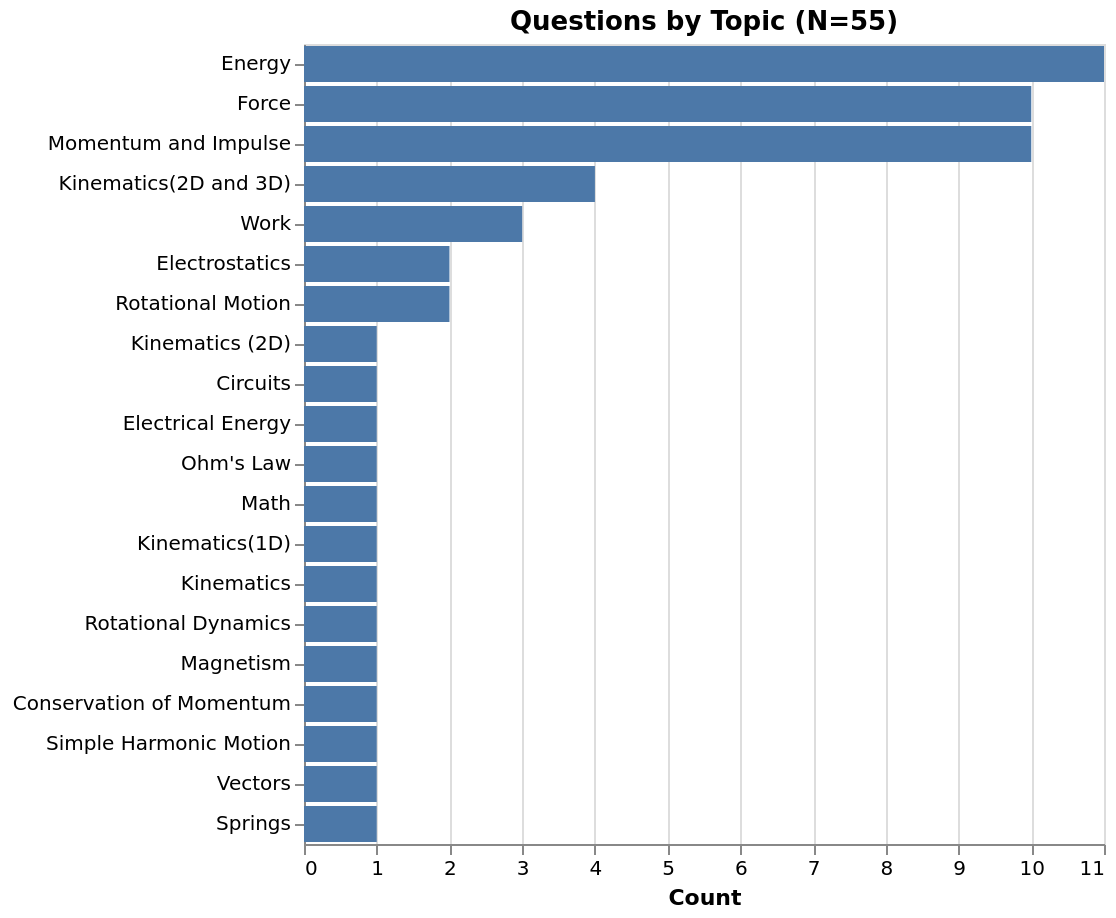
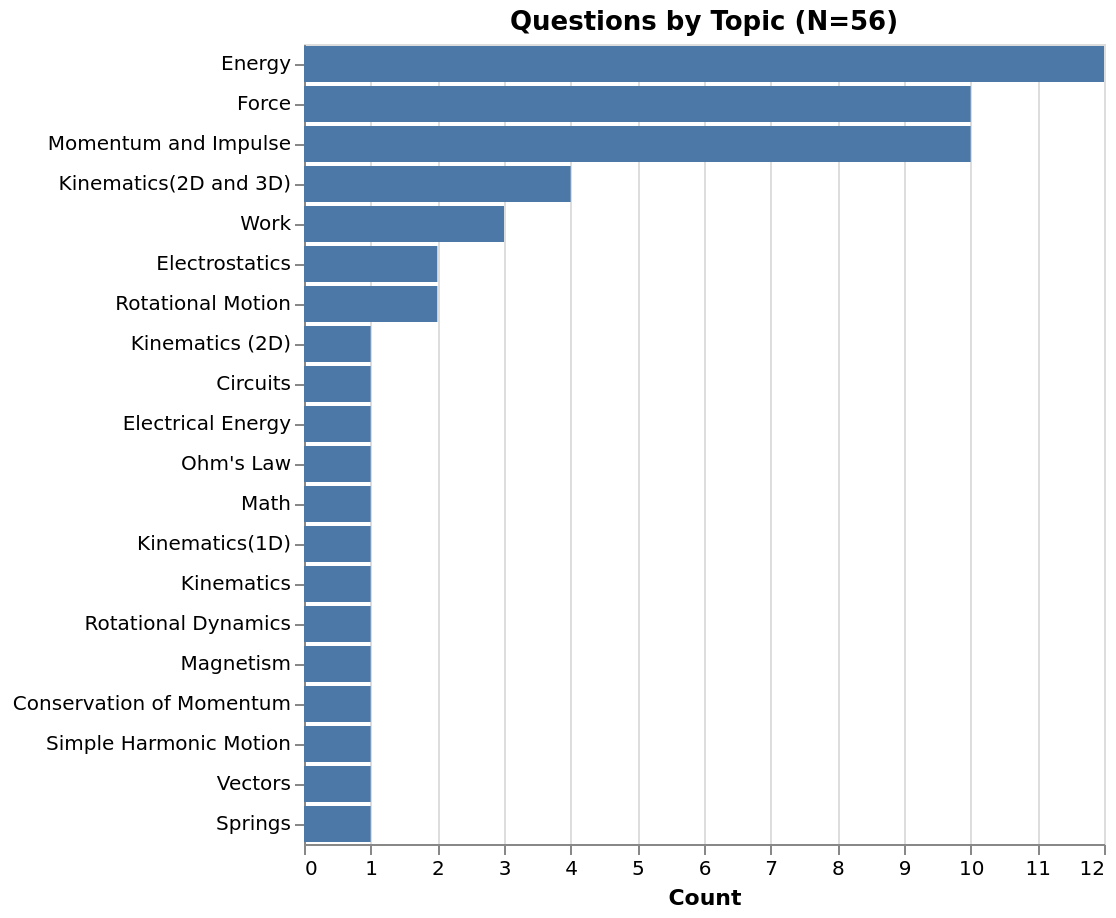
Update TOC via GH Action

diff --git a/content/index.md b/content/index.md
@@ -1,0 +1,61 @@
+# Question Index 
+ 
+ 
+ | Question | Public HTML | Public MD | Instructor MD | PL |
+| --------- | --------- | --------- | --------- | --------- |
+1 |  [Q 1](https://firas.moosvi.com/oer/physicsbank/content/content/public/009.Work/Work/force_and_displacement/force_and_displacement.html)| [Q 1](https://github.com/open-resources/physics_bank/blob/main/content/content/public/009.Work/Work/force_and_displacement/force_and_displacement.md) | [Q 1](https://github.com/open-resources/instructor_physics_bank/blob/main/output/content/instructor/009.Work/Work/force_and_displacement/force_and_displacement.md) | [TBD]() | 
+2 |  [Q 2](https://firas.moosvi.com/oer/physicsbank/content/content/public/009.Work/Power/Energy%20Expenditure/Energy%20Expenditure.html)| [Q 2](https://github.com/open-resources/physics_bank/blob/main/content/content/public/009.Work/Power/Energy%20Expenditure/Energy%20Expenditure.md) | [Q 2](https://github.com/open-resources/instructor_physics_bank/blob/main/output/content/instructor/009.Work/Power/Energy%20Expenditure/Energy%20Expenditure.md) | [TBD]() | 
+3 |  [Q 3](https://firas.moosvi.com/oer/physicsbank/content/content/public/009.Work/Work-Energy%20Theorem/work_frictionless_surface/work_frictionless_surface.html)| [Q 3](https://github.com/open-resources/physics_bank/blob/main/content/content/public/009.Work/Work-Energy%20Theorem/work_frictionless_surface/work_frictionless_surface.md) | [Q 3](https://github.com/open-resources/instructor_physics_bank/blob/main/output/content/instructor/009.Work/Work-Energy%20Theorem/work_frictionless_surface/work_frictionless_surface.md) | [TBD]() | 
+4 |  [Q 4](https://firas.moosvi.com/oer/physicsbank/content/content/public/005.Kinematics%282D%20and%203D%29/Uniform%20Circular%20Motion/centripetal_force/centripetal_force.html)| [Q 4](https://github.com/open-resources/physics_bank/blob/main/content/content/public/005.Kinematics%282D%20and%203D%29/Uniform%20Circular%20Motion/centripetal_force/centripetal_force.md) | [Q 4](https://github.com/open-resources/instructor_physics_bank/blob/main/output/content/instructor/005.Kinematics%282D%20and%203D%29/Uniform%20Circular%20Motion/centripetal_force/centripetal_force.md) | [TBD]() | 
+5 |  [Q 5](https://firas.moosvi.com/oer/physicsbank/content/content/public/005.Kinematics%282D%20and%203D%29/Uniform%20Circular%20Motion/angular_speed/angular_speed.html)| [Q 5](https://github.com/open-resources/physics_bank/blob/main/content/content/public/005.Kinematics%282D%20and%203D%29/Uniform%20Circular%20Motion/angular_speed/angular_speed.md) | [Q 5](https://github.com/open-resources/instructor_physics_bank/blob/main/output/content/instructor/005.Kinematics%282D%20and%203D%29/Uniform%20Circular%20Motion/angular_speed/angular_speed.md) | [TBD]() | 
+6 |  [Q 6](https://firas.moosvi.com/oer/physicsbank/content/content/public/005.Kinematics%282D%20and%203D%29/Non-Uniform%20Circular%20Motion/Acceleration%20around%20a%20turn/Acceleration%20around%20a%20turn.html)| [Q 6](https://github.com/open-resources/physics_bank/blob/main/content/content/public/005.Kinematics%282D%20and%203D%29/Non-Uniform%20Circular%20Motion/Acceleration%20around%20a%20turn/Acceleration%20around%20a%20turn.md) | [Q 6](https://github.com/open-resources/instructor_physics_bank/blob/main/output/content/instructor/005.Kinematics%282D%20and%203D%29/Non-Uniform%20Circular%20Motion/Acceleration%20around%20a%20turn/Acceleration%20around%20a%20turn.md) | [TBD]() | 
+7 |  [Q 7](https://firas.moosvi.com/oer/physicsbank/content/content/public/005.Kinematics%282D%20and%203D%29/Non-Uniform%20Circular%20Motion/Turning_Car/Turning_car.html)| [Q 7](https://github.com/open-resources/physics_bank/blob/main/content/content/public/005.Kinematics%282D%20and%203D%29/Non-Uniform%20Circular%20Motion/Turning_Car/Turning_car.md) | [Q 7](https://github.com/open-resources/instructor_physics_bank/blob/main/output/content/instructor/005.Kinematics%282D%20and%203D%29/Non-Uniform%20Circular%20Motion/Turning_Car/Turning_car.md) | [TBD]() | 
+8 |  [Q 8](https://firas.moosvi.com/oer/physicsbank/content/content/public/005.Kinematics%282D%20and%203D%29/Projectile%20Motion/ski_jump/ski_jump.html)| [Q 8](https://github.com/open-resources/physics_bank/blob/main/content/content/public/005.Kinematics%282D%20and%203D%29/Projectile%20Motion/ski_jump/ski_jump.md) | [Q 8](https://github.com/open-resources/instructor_physics_bank/blob/main/output/content/instructor/005.Kinematics%282D%20and%203D%29/Projectile%20Motion/ski_jump/ski_jump.md) | [TBD]() | 
+9 |  [Q 9](https://firas.moosvi.com/oer/physicsbank/content/content/public/006.Force/Topic%20Outcome/The%20max%20acceleration%20without%20slipping/The%20max%20acceleration%20without%20slipping.html)| [Q 9](https://github.com/open-resources/physics_bank/blob/main/content/content/public/006.Force/Topic%20Outcome/The%20max%20acceleration%20without%20slipping/The%20max%20acceleration%20without%20slipping.md) | [Q 9](https://github.com/open-resources/instructor_physics_bank/blob/main/output/content/instructor/006.Force/Topic%20Outcome/The%20max%20acceleration%20without%20slipping/The%20max%20acceleration%20without%20slipping.md) | [TBD]() | 
+10 |  [Q 10](https://firas.moosvi.com/oer/physicsbank/content/content/public/006.Force/Topic%20Outcome/Elevator%20Movement%20Direction/Elevator%20Movement%20Direction.html)| [Q 10](https://github.com/open-resources/physics_bank/blob/main/content/content/public/006.Force/Topic%20Outcome/Elevator%20Movement%20Direction/Elevator%20Movement%20Direction.md) | [Q 10](https://github.com/open-resources/instructor_physics_bank/blob/main/output/content/instructor/006.Force/Topic%20Outcome/Elevator%20Movement%20Direction/Elevator%20Movement%20Direction.md) | [TBD]() | 
+11 |  [Q 11](https://firas.moosvi.com/oer/physicsbank/content/content/public/006.Force/Topic%20Outcome/velocity_netforce/velocity_netforce.html)| [Q 11](https://github.com/open-resources/physics_bank/blob/main/content/content/public/006.Force/Topic%20Outcome/velocity_netforce/velocity_netforce.md) | [Q 11](https://github.com/open-resources/instructor_physics_bank/blob/main/output/content/instructor/006.Force/Topic%20Outcome/velocity_netforce/velocity_netforce.md) | [TBD]() | 
+12 |  [Q 12](https://firas.moosvi.com/oer/physicsbank/content/content/public/006.Force/Topic%20Outcome/ropes_and_blocks/ropes_and_blocks.html)| [Q 12](https://github.com/open-resources/physics_bank/blob/main/content/content/public/006.Force/Topic%20Outcome/ropes_and_blocks/ropes_and_blocks.md) | [Q 12](https://github.com/open-resources/instructor_physics_bank/blob/main/output/content/instructor/006.Force/Topic%20Outcome/ropes_and_blocks/ropes_and_blocks.md) | [TBD]() | 
+13 |  [Q 13](https://firas.moosvi.com/oer/physicsbank/content/content/public/006.Force/Topic%20Outcome/spring_on_incline/spring_on_incline.html)| [Q 13](https://github.com/open-resources/physics_bank/blob/main/content/content/public/006.Force/Topic%20Outcome/spring_on_incline/spring_on_incline.md) | [Q 13](https://github.com/open-resources/instructor_physics_bank/blob/main/output/content/instructor/006.Force/Topic%20Outcome/spring_on_incline/spring_on_incline.md) | [TBD]() | 
+14 |  [Q 14](https://firas.moosvi.com/oer/physicsbank/content/content/public/006.Force/Topic%20Outcome/Rotating%20ball/Rotating%20ball.html)| [Q 14](https://github.com/open-resources/physics_bank/blob/main/content/content/public/006.Force/Topic%20Outcome/Rotating%20ball/Rotating%20ball.md) | [Q 14](https://github.com/open-resources/instructor_physics_bank/blob/main/output/content/instructor/006.Force/Topic%20Outcome/Rotating%20ball/Rotating%20ball.md) | [TBD]() | 
+15 |  [Q 15](https://firas.moosvi.com/oer/physicsbank/content/content/public/006.Force/Equilibrium/Two%20blocks%20connected%20by%20a%20string/Two%20Blocks%20Connected%20by%20a%20String.html)| [Q 15](https://github.com/open-resources/physics_bank/blob/main/content/content/public/006.Force/Equilibrium/Two%20blocks%20connected%20by%20a%20string/Two%20Blocks%20Connected%20by%20a%20String.md) | [Q 15](https://github.com/open-resources/instructor_physics_bank/blob/main/output/content/instructor/006.Force/Equilibrium/Two%20blocks%20connected%20by%20a%20string/Two%20Blocks%20Connected%20by%20a%20String.md) | [TBD]() | 
+16 |  [Q 16](https://firas.moosvi.com/oer/physicsbank/content/content/public/006.Force/Dynamics%20of%20Circular%20Motion/object_on_string/object_on_string.html)| [Q 16](https://github.com/open-resources/physics_bank/blob/main/content/content/public/006.Force/Dynamics%20of%20Circular%20Motion/object_on_string/object_on_string.md) | [Q 16](https://github.com/open-resources/instructor_physics_bank/blob/main/output/content/instructor/006.Force/Dynamics%20of%20Circular%20Motion/object_on_string/object_on_string.md) | [TBD]() | 
+17 |  [Q 17](https://firas.moosvi.com/oer/physicsbank/content/content/public/006.Force/Friction/Frictional%20Force%20between%20tires%20and%20road/Frictional%20Force%20between%20tires%20and%20road.html)| [Q 17](https://github.com/open-resources/physics_bank/blob/main/content/content/public/006.Force/Friction/Frictional%20Force%20between%20tires%20and%20road/Frictional%20Force%20between%20tires%20and%20road.md) | [Q 17](https://github.com/open-resources/instructor_physics_bank/blob/main/output/content/instructor/006.Force/Friction/Frictional%20Force%20between%20tires%20and%20road/Frictional%20Force%20between%20tires%20and%20road.md) | [TBD]() | 
+18 |  [Q 18](https://firas.moosvi.com/oer/physicsbank/content/content/public/006.Force/Springs/Bungee_jumping/bungee_jumping.html)| [Q 18](https://github.com/open-resources/physics_bank/blob/main/content/content/public/006.Force/Springs/Bungee_jumping/bungee_jumping.md) | [Q 18](https://github.com/open-resources/instructor_physics_bank/blob/main/output/content/instructor/006.Force/Springs/Bungee_jumping/bungee_jumping.md) | [TBD]() | 
+19 |  [Q 19](https://firas.moosvi.com/oer/physicsbank/content/content/public/006.Force/Newton%27s%20Third%20Law/Force%20Vectors/force_vectors.html)| [Q 19](https://github.com/open-resources/physics_bank/blob/main/content/content/public/006.Force/Newton%27s%20Third%20Law/Force%20Vectors/force_vectors.md) | [Q 19](https://github.com/open-resources/instructor_physics_bank/blob/main/output/content/instructor/006.Force/Newton%27s%20Third%20Law/Force%20Vectors/force_vectors.md) | [TBD]() | 
+20 |  [Q 20](https://firas.moosvi.com/oer/physicsbank/content/content/public/021.Circuits/RC%20Circuits/OSUPv2p10_16/OSUPv2p10_16.html)| [Q 20](https://github.com/open-resources/physics_bank/blob/main/content/content/public/021.Circuits/RC%20Circuits/OSUPv2p10_16/OSUPv2p10_16.md) | [Q 20](https://github.com/open-resources/instructor_physics_bank/blob/main/output/content/instructor/021.Circuits/RC%20Circuits/OSUPv2p10_16/OSUPv2p10_16.md) | [TBD]() | 
+21 |  [Q 21](https://firas.moosvi.com/oer/physicsbank/content/content/public/021.Circuits/Current/OSUPv2.9.2/OSUPv2.9.2.html)| [Q 21](https://github.com/open-resources/physics_bank/blob/main/content/content/public/021.Circuits/Current/OSUPv2.9.2/OSUPv2.9.2.md) | [Q 21](https://github.com/open-resources/instructor_physics_bank/blob/main/output/content/instructor/021.Circuits/Current/OSUPv2.9.2/OSUPv2.9.2.md) | [TBD]() | 
+22 |  [Q 22](https://firas.moosvi.com/oer/physicsbank/content/content/public/021.Circuits/Electrical%20Energy/OSUPv2.9.16/OSUPv2.9.16.html)| [Q 22](https://github.com/open-resources/physics_bank/blob/main/content/content/public/021.Circuits/Electrical%20Energy/OSUPv2.9.16/OSUPv2.9.16.md) | [Q 22](https://github.com/open-resources/instructor_physics_bank/blob/main/output/content/instructor/021.Circuits/Electrical%20Energy/OSUPv2.9.16/OSUPv2.9.16.md) | [TBD]() | 
+23 |  [Q 23](https://firas.moosvi.com/oer/physicsbank/content/content/public/021.Circuits/Ohm%27s%20Law/OSUPv2.9.13/OSUPv2.9.13.html)| [Q 23](https://github.com/open-resources/physics_bank/blob/main/content/content/public/021.Circuits/Ohm%27s%20Law/OSUPv2.9.13/OSUPv2.9.13.md) | [Q 23](https://github.com/open-resources/instructor_physics_bank/blob/main/output/content/instructor/021.Circuits/Ohm%27s%20Law/OSUPv2.9.13/OSUPv2.9.13.md) | [TBD]() | 
+24 |  [Q 24](https://firas.moosvi.com/oer/physicsbank/content/content/public/001.Math/Integrals/Rocket/Rocket.html)| [Q 24](https://github.com/open-resources/physics_bank/blob/main/content/content/public/001.Math/Integrals/Rocket/Rocket.md) | [Q 24](https://github.com/open-resources/instructor_physics_bank/blob/main/output/content/instructor/001.Math/Integrals/Rocket/Rocket.md) | [TBD]() | 
+25 |  [Q 25](https://firas.moosvi.com/oer/physicsbank/content/content/public/004.Kinematics%281D%29/Motion%20Diagrams/Running_Dog/Running_Dog.html)| [Q 25](https://github.com/open-resources/physics_bank/blob/main/content/content/public/004.Kinematics%281D%29/Motion%20Diagrams/Running_Dog/Running_Dog.md) | [Q 25](https://github.com/open-resources/instructor_physics_bank/blob/main/output/content/instructor/004.Kinematics%281D%29/Motion%20Diagrams/Running_Dog/Running_Dog.md) | [TBD]() | 
+26 |  [Q 26](https://firas.moosvi.com/oer/physicsbank/content/content/public/004.Kinematics%281D%29/Position/distance_travelled/distance_travelled.html)| [Q 26](https://github.com/open-resources/physics_bank/blob/main/content/content/public/004.Kinematics%281D%29/Position/distance_travelled/distance_travelled.md) | [Q 26](https://github.com/open-resources/instructor_physics_bank/blob/main/output/content/instructor/004.Kinematics%281D%29/Position/distance_travelled/distance_travelled.md) | [TBD]() | 
+27 |  [Q 27](https://firas.moosvi.com/oer/physicsbank/content/content/public/018.Electrostatics/Electric%20Potential/Particle%20between%20charged%20plates/Particle%20between%20charged%20plates.html)| [Q 27](https://github.com/open-resources/physics_bank/blob/main/content/content/public/018.Electrostatics/Electric%20Potential/Particle%20between%20charged%20plates/Particle%20between%20charged%20plates.md) | [Q 27](https://github.com/open-resources/instructor_physics_bank/blob/main/output/content/instructor/018.Electrostatics/Electric%20Potential/Particle%20between%20charged%20plates/Particle%20between%20charged%20plates.md) | [TBD]() | 
+28 |  [Q 28](https://firas.moosvi.com/oer/physicsbank/content/content/public/011.Rotational%20Dynamics/Topic%20Outcome/thread_on_spool/thread_on_spool.html)| [Q 28](https://github.com/open-resources/physics_bank/blob/main/content/content/public/011.Rotational%20Dynamics/Topic%20Outcome/thread_on_spool/thread_on_spool.md) | [Q 28](https://github.com/open-resources/instructor_physics_bank/blob/main/output/content/instructor/011.Rotational%20Dynamics/Topic%20Outcome/thread_on_spool/thread_on_spool.md) | [TBD]() | 
+29 |  [Q 29](https://firas.moosvi.com/oer/physicsbank/content/content/public/008.Energy/Exploding_Asteroid/Exploding_Asteroid.html)| [Q 29](https://github.com/open-resources/physics_bank/blob/main/content/content/public/008.Energy/Exploding_Asteroid/Exploding_Asteroid.md) | [Q 29](https://github.com/open-resources/instructor_physics_bank/blob/main/output/content/instructor/008.Energy/Exploding_Asteroid/Exploding_Asteroid.md) | [TBD]() | 
+30 |  [Q 30](https://firas.moosvi.com/oer/physicsbank/content/content/public/008.Energy/Kinetic%20Energy/KE_energy_momentum/KE_energy_momentum.html)| [Q 30](https://github.com/open-resources/physics_bank/blob/main/content/content/public/008.Energy/Kinetic%20Energy/KE_energy_momentum/KE_energy_momentum.md) | [Q 30](https://github.com/open-resources/instructor_physics_bank/blob/main/output/content/instructor/008.Energy/Kinetic%20Energy/KE_energy_momentum/KE_energy_momentum.md) | [TBD]() | 
+31 |  [Q 31](https://firas.moosvi.com/oer/physicsbank/content/content/public/008.Energy/Kinetic%20Energy/KE_testmass/KE_testmass.html)| [Q 31](https://github.com/open-resources/physics_bank/blob/main/content/content/public/008.Energy/Kinetic%20Energy/KE_testmass/KE_testmass.md) | [Q 31](https://github.com/open-resources/instructor_physics_bank/blob/main/output/content/instructor/008.Energy/Kinetic%20Energy/KE_testmass/KE_testmass.md) | [TBD]() | 
+32 |  [Q 32](https://firas.moosvi.com/oer/physicsbank/content/content/public/008.Energy/Topic%20Outcome/frictionless_track/frictionless_track.html)| [Q 32](https://github.com/open-resources/physics_bank/blob/main/content/content/public/008.Energy/Topic%20Outcome/frictionless_track/frictionless_track.md) | [Q 32](https://github.com/open-resources/instructor_physics_bank/blob/main/output/content/instructor/008.Energy/Topic%20Outcome/frictionless_track/frictionless_track.md) | [TBD]() | 
+33 |  [Q 33](https://firas.moosvi.com/oer/physicsbank/content/content/public/008.Energy/Topic%20Outcome/spring_oscillations/spring_oscillations.html)| [Q 33](https://github.com/open-resources/physics_bank/blob/main/content/content/public/008.Energy/Topic%20Outcome/spring_oscillations/spring_oscillations.md) | [Q 33](https://github.com/open-resources/instructor_physics_bank/blob/main/output/content/instructor/008.Energy/Topic%20Outcome/spring_oscillations/spring_oscillations.md) | [TBD]() | 
+34 |  [Q 34](https://firas.moosvi.com/oer/physicsbank/content/content/public/008.Energy/Conservation%20of%20Energy/Cut%20The%20Rope/Cut%20The%20Rope.html)| [Q 34](https://github.com/open-resources/physics_bank/blob/main/content/content/public/008.Energy/Conservation%20of%20Energy/Cut%20The%20Rope/Cut%20The%20Rope.md) | [Q 34](https://github.com/open-resources/instructor_physics_bank/blob/main/output/content/instructor/008.Energy/Conservation%20of%20Energy/Cut%20The%20Rope/Cut%20The%20Rope.md) | [TBD]() | 
+35 |  [Q 35](https://firas.moosvi.com/oer/physicsbank/content/content/public/008.Energy/Conservation%20of%20Energy/Energy%20lost%20to%20air%20friction/energy_lost_air_friction.html)| [Q 35](https://github.com/open-resources/physics_bank/blob/main/content/content/public/008.Energy/Conservation%20of%20Energy/Energy%20lost%20to%20air%20friction/energy_lost_air_friction.md) | [Q 35](https://github.com/open-resources/instructor_physics_bank/blob/main/output/content/instructor/008.Energy/Conservation%20of%20Energy/Energy%20lost%20to%20air%20friction/energy_lost_air_friction.md) | [TBD]() | 
+36 |  [Q 36](https://firas.moosvi.com/oer/physicsbank/content/content/public/008.Energy/Conservation%20of%20Energy/ball_race/2012Final_q3.html)| [Q 36](https://github.com/open-resources/physics_bank/blob/main/content/content/public/008.Energy/Conservation%20of%20Energy/ball_race/2012Final_q3.md) | [Q 36](https://github.com/open-resources/instructor_physics_bank/blob/main/output/content/instructor/008.Energy/Conservation%20of%20Energy/ball_race/2012Final_q3.md) | [TBD]() | 
+37 |  [Q 37](https://firas.moosvi.com/oer/physicsbank/content/content/public/008.Energy/Conservation%20of%20Energy/Physics%20of%20Roller%20Coasters/Physics%20of%20Roller%20Coasters.html)| [Q 37](https://github.com/open-resources/physics_bank/blob/main/content/content/public/008.Energy/Conservation%20of%20Energy/Physics%20of%20Roller%20Coasters/Physics%20of%20Roller%20Coasters.md) | [Q 37](https://github.com/open-resources/instructor_physics_bank/blob/main/output/content/instructor/008.Energy/Conservation%20of%20Energy/Physics%20of%20Roller%20Coasters/Physics%20of%20Roller%20Coasters.md) | [TBD]() | 
+38 |  [Q 38](https://firas.moosvi.com/oer/physicsbank/content/content/public/008.Energy/Conservation%20of%20Energy/dissipative_process/dissipative_process.html)| [Q 38](https://github.com/open-resources/physics_bank/blob/main/content/content/public/008.Energy/Conservation%20of%20Energy/dissipative_process/dissipative_process.md) | [Q 38](https://github.com/open-resources/instructor_physics_bank/blob/main/output/content/instructor/008.Energy/Conservation%20of%20Energy/dissipative_process/dissipative_process.md) | [TBD]() | 
+39 |  [Q 39](https://firas.moosvi.com/oer/physicsbank/content/content/public/008.Energy/Potential%20Energy/Collision%20of%20cart%20with%20spring/Collision%20of%20cart%20with%20spring.html)| [Q 39](https://github.com/open-resources/physics_bank/blob/main/content/content/public/008.Energy/Potential%20Energy/Collision%20of%20cart%20with%20spring/Collision%20of%20cart%20with%20spring.md) | [Q 39](https://github.com/open-resources/instructor_physics_bank/blob/main/output/content/instructor/008.Energy/Potential%20Energy/Collision%20of%20cart%20with%20spring/Collision%20of%20cart%20with%20spring.md) | [TBD]() | 
+40 |  [Q 40](https://firas.moosvi.com/oer/physicsbank/content/content/public/019.Magnetism/Magnetic%20Force/Electron%20in%20a%20Solenoid/Electron%20in%20a%20Solenoid.html)| [Q 40](https://github.com/open-resources/physics_bank/blob/main/content/content/public/019.Magnetism/Magnetic%20Force/Electron%20in%20a%20Solenoid/Electron%20in%20a%20Solenoid.md) | [Q 40](https://github.com/open-resources/instructor_physics_bank/blob/main/output/content/instructor/019.Magnetism/Magnetic%20Force/Electron%20in%20a%20Solenoid/Electron%20in%20a%20Solenoid.md) | [TBD]() | 
+41 |  [Q 41](https://firas.moosvi.com/oer/physicsbank/content/content/public/010.Rotational%20Motion/Rotational%20Energy/Inertia%20of%20T-shaped%20rod/Inertia%20of%20T-shaped%20rod.html)| [Q 41](https://github.com/open-resources/physics_bank/blob/main/content/content/public/010.Rotational%20Motion/Rotational%20Energy/Inertia%20of%20T-shaped%20rod/Inertia%20of%20T-shaped%20rod.md) | [Q 41](https://github.com/open-resources/instructor_physics_bank/blob/main/output/content/instructor/010.Rotational%20Motion/Rotational%20Energy/Inertia%20of%20T-shaped%20rod/Inertia%20of%20T-shaped%20rod.md) | [TBD]() | 
+42 |  [Q 42](https://firas.moosvi.com/oer/physicsbank/content/content/public/010.Rotational%20Motion/Topic%20Outcome/Wheel_of_fortune/Wheel_of_fortune.html)| [Q 42](https://github.com/open-resources/physics_bank/blob/main/content/content/public/010.Rotational%20Motion/Topic%20Outcome/Wheel_of_fortune/Wheel_of_fortune.md) | [Q 42](https://github.com/open-resources/instructor_physics_bank/blob/main/output/content/instructor/010.Rotational%20Motion/Topic%20Outcome/Wheel_of_fortune/Wheel_of_fortune.md) | [TBD]() | 
+43 |  [Q 43](https://firas.moosvi.com/oer/physicsbank/content/content/public/007.Momentum%20and%20Impulse/2D%20Collisions/light_heavy_collision/light_heavy_collision.html)| [Q 43](https://github.com/open-resources/physics_bank/blob/main/content/content/public/007.Momentum%20and%20Impulse/2D%20Collisions/light_heavy_collision/light_heavy_collision.md) | [Q 43](https://github.com/open-resources/instructor_physics_bank/blob/main/output/content/instructor/007.Momentum%20and%20Impulse/2D%20Collisions/light_heavy_collision/light_heavy_collision.md) | [TBD]() | 
+44 |  [Q 44](https://firas.moosvi.com/oer/physicsbank/content/content/public/007.Momentum%20and%20Impulse/2D%20Collisions/billiards_collision/billiards_collision.html)| [Q 44](https://github.com/open-resources/physics_bank/blob/main/content/content/public/007.Momentum%20and%20Impulse/2D%20Collisions/billiards_collision/billiards_collision.md) | [Q 44](https://github.com/open-resources/instructor_physics_bank/blob/main/output/content/instructor/007.Momentum%20and%20Impulse/2D%20Collisions/billiards_collision/billiards_collision.md) | [TBD]() | 
+45 |  [Q 45](https://firas.moosvi.com/oer/physicsbank/content/content/public/007.Momentum%20and%20Impulse/Conservation%20of%20Momentum/Raindrops_Collision/raindrops_collision.html)| [Q 45](https://github.com/open-resources/physics_bank/blob/main/content/content/public/007.Momentum%20and%20Impulse/Conservation%20of%20Momentum/Raindrops_Collision/raindrops_collision.md) | [Q 45](https://github.com/open-resources/instructor_physics_bank/blob/main/output/content/instructor/007.Momentum%20and%20Impulse/Conservation%20of%20Momentum/Raindrops_Collision/raindrops_collision.md) | [TBD]() | 
+46 |  [Q 46](https://firas.moosvi.com/oer/physicsbank/content/content/public/007.Momentum%20and%20Impulse/Conservation%20of%20Momentum/Isolated_systems/Isolated_systems.html)| [Q 46](https://github.com/open-resources/physics_bank/blob/main/content/content/public/007.Momentum%20and%20Impulse/Conservation%20of%20Momentum/Isolated_systems/Isolated_systems.md) | [Q 46](https://github.com/open-resources/instructor_physics_bank/blob/main/output/content/instructor/007.Momentum%20and%20Impulse/Conservation%20of%20Momentum/Isolated_systems/Isolated_systems.md) | [TBD]() | 
+47 |  [Q 47](https://firas.moosvi.com/oer/physicsbank/content/content/public/007.Momentum%20and%20Impulse/Conservation%20of%20Momentum/Explosions_and_Velocity/Explosions_and_Velocity.html)| [Q 47](https://github.com/open-resources/physics_bank/blob/main/content/content/public/007.Momentum%20and%20Impulse/Conservation%20of%20Momentum/Explosions_and_Velocity/Explosions_and_Velocity.md) | [Q 47](https://github.com/open-resources/instructor_physics_bank/blob/main/output/content/instructor/007.Momentum%20and%20Impulse/Conservation%20of%20Momentum/Explosions_and_Velocity/Explosions_and_Velocity.md) | [TBD]() | 
+48 |  [Q 48](https://firas.moosvi.com/oer/physicsbank/content/content/public/007.Momentum%20and%20Impulse/Conservation%20of%20Momentum/mass_spring_collision/mass_spring_collision.html)| [Q 48](https://github.com/open-resources/physics_bank/blob/main/content/content/public/007.Momentum%20and%20Impulse/Conservation%20of%20Momentum/mass_spring_collision/mass_spring_collision.md) | [Q 48](https://github.com/open-resources/instructor_physics_bank/blob/main/output/content/instructor/007.Momentum%20and%20Impulse/Conservation%20of%20Momentum/mass_spring_collision/mass_spring_collision.md) | [TBD]() | 
+49 |  [Q 49](https://firas.moosvi.com/oer/physicsbank/content/content/public/007.Momentum%20and%20Impulse/Conservation%20of%20Momentum/System_Open_or_Closed/System_Open_or_Closed.html)| [Q 49](https://github.com/open-resources/physics_bank/blob/main/content/content/public/007.Momentum%20and%20Impulse/Conservation%20of%20Momentum/System_Open_or_Closed/System_Open_or_Closed.md) | [Q 49](https://github.com/open-resources/instructor_physics_bank/blob/main/output/content/instructor/007.Momentum%20and%20Impulse/Conservation%20of%20Momentum/System_Open_or_Closed/System_Open_or_Closed.md) | [TBD]() | 
+50 |  [Q 50](https://firas.moosvi.com/oer/physicsbank/content/content/public/007.Momentum%20and%20Impulse/Impulse/airbag_collision/airbag_collision.html)| [Q 50](https://github.com/open-resources/physics_bank/blob/main/content/content/public/007.Momentum%20and%20Impulse/Impulse/airbag_collision/airbag_collision.md) | [Q 50](https://github.com/open-resources/instructor_physics_bank/blob/main/output/content/instructor/007.Momentum%20and%20Impulse/Impulse/airbag_collision/airbag_collision.md) | [TBD]() | 
+51 |  [Q 51](https://firas.moosvi.com/oer/physicsbank/content/content/public/007.Momentum%20and%20Impulse/Impulse/Bouncing_Ball/Bouncing_Ball.html)| [Q 51](https://github.com/open-resources/physics_bank/blob/main/content/content/public/007.Momentum%20and%20Impulse/Impulse/Bouncing_Ball/Bouncing_Ball.md) | [Q 51](https://github.com/open-resources/instructor_physics_bank/blob/main/output/content/instructor/007.Momentum%20and%20Impulse/Impulse/Bouncing_Ball/Bouncing_Ball.md) | [TBD]() | 
+52 |  [Q 52](https://firas.moosvi.com/oer/physicsbank/content/content/public/007.Momentum%20and%20Impulse/Momentum/Dinner_Plate/dinner_plate.html)| [Q 52](https://github.com/open-resources/physics_bank/blob/main/content/content/public/007.Momentum%20and%20Impulse/Momentum/Dinner_Plate/dinner_plate.md) | [Q 52](https://github.com/open-resources/instructor_physics_bank/blob/main/output/content/instructor/007.Momentum%20and%20Impulse/Momentum/Dinner_Plate/dinner_plate.md) | [TBD]() | 
+53 |  [Q 53](https://firas.moosvi.com/oer/physicsbank/content/content/public/007.Momentum%20and%20Impulse/Momentum/Momentum_and_Inertia/Momentum_and_Inertia.html)| [Q 53](https://github.com/open-resources/physics_bank/blob/main/content/content/public/007.Momentum%20and%20Impulse/Momentum/Momentum_and_Inertia/Momentum_and_Inertia.md) | [Q 53](https://github.com/open-resources/instructor_physics_bank/blob/main/output/content/instructor/007.Momentum%20and%20Impulse/Momentum/Momentum_and_Inertia/Momentum_and_Inertia.md) | [TBD]() | 
+54 |  [Q 54](https://firas.moosvi.com/oer/physicsbank/content/content/public/007.Momentum%20and%20Impulse/Momentum/Rock_Powered_Rocket/Rock_Powered_Rocket.html)| [Q 54](https://github.com/open-resources/physics_bank/blob/main/content/content/public/007.Momentum%20and%20Impulse/Momentum/Rock_Powered_Rocket/Rock_Powered_Rocket.md) | [Q 54](https://github.com/open-resources/instructor_physics_bank/blob/main/output/content/instructor/007.Momentum%20and%20Impulse/Momentum/Rock_Powered_Rocket/Rock_Powered_Rocket.md) | [TBD]() | 
+55 |  [Q 55](https://firas.moosvi.com/oer/physicsbank/content/content/public/003.Vectors/Topic%20Outcome/Choose_all_Vectors_Scalars/Choose_all_Vectors_Scalars.html)| [Q 55](https://github.com/open-resources/physics_bank/blob/main/content/content/public/003.Vectors/Topic%20Outcome/Choose_all_Vectors_Scalars/Choose_all_Vectors_Scalars.md) | [Q 55](https://github.com/open-resources/instructor_physics_bank/blob/main/output/content/instructor/003.Vectors/Topic%20Outcome/Choose_all_Vectors_Scalars/Choose_all_Vectors_Scalars.md) | [TBD]() | 
+56 |  [Q 56](https://firas.moosvi.com/oer/physicsbank/content/content/public/014.Elasticity/Topic%20Outcome/Identical%20Mass-Springs%20with%20different%20Displacement/Identical%20Mass-Springs%20with%20different%20Displacement.html)| [Q 56](https://github.com/open-resources/physics_bank/blob/main/content/content/public/014.Elasticity/Topic%20Outcome/Identical%20Mass-Springs%20with%20different%20Displacement/Identical%20Mass-Springs%20with%20different%20Displacement.md) | [Q 56](https://github.com/open-resources/instructor_physics_bank/blob/main/output/content/instructor/014.Elasticity/Topic%20Outcome/Identical%20Mass-Springs%20with%20different%20Displacement/Identical%20Mass-Springs%20with%20different%20Displacement.md) | [TBD]() | 
